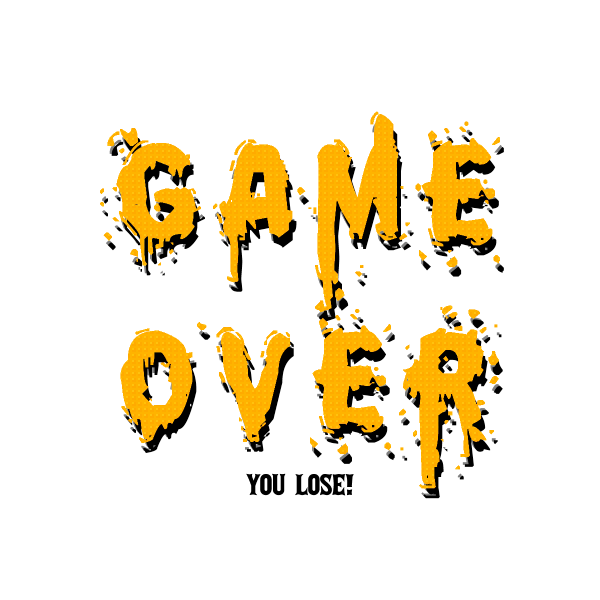
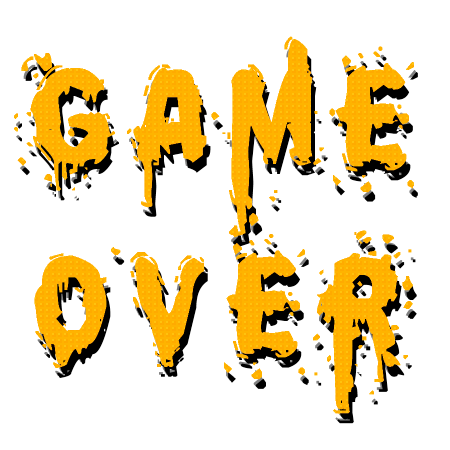
Added Game Over and Win Screen

diff --git a/js/rally.js b/js/rally.js
@@ -7,6 +7,7 @@ var cityImage;
 var enemyImage;
 var grassImage;
 var mapleImage;
+var gameOverImage;
 var selectedMap;
 var selectedRoad;
 var worldPos;
@@ -14,10 +15,17 @@ var stopwatchString;
 var collectedSyrups = 0;
 var currentLevel = 0;
 var levels = [];
-var playerName = localStorage.getItem("username");
 var joy = " ";
 
+var elapsedTime;
+var totalTime = 0;
+
+var playerName = localStorage.getItem("username");
+
 const imageCache = {};
+
+var gameOver = false;
+var gameWon = false;
 
 function cachedLoadImage(path) {
     if (!imageCache[path]) {
@@ -28,7 +36,9 @@ function cachedLoadImage(path) {
 }
 
 function preload() {
-    levels = getMaps()
+    levels = getMaps();
+
+    refreshScores();
 
     specialCarSkins = {
         "uwu": loadImage("./assets/player/uwu.png"),
@@ -48,12 +58,14 @@ function preload() {
     if (specialCityTexture[playerName.toLowerCase()]) {
         cityImage = specialCityTexture[playerName.toLowerCase()];
     } else {
-        cityImage = loadImage("./assets/map/cityBW.png");
+        cityImage = loadImage("./assets/map/citybw.png");
     }
 
     enemyImage = loadImage("./assets/enemy/enemy.png");
     grassImage = loadImage("./assets/map/grass.png");
     mapleImage = loadImage("./assets/items/maple.png");
+
+    gameOverImage = loadImage("./assets/ui/gameover.png")
 
     cachedLoadImage("./assets/road/000001010.png");
     cachedLoadImage("./assets/road/000100010.png");
@@ -99,12 +111,10 @@ function nextLevel() {
     worldPos = createVector(0, 0);
 
     if (currentLevel == levels.length) {
-        alert("you win");
-        currentLevel = -1;
+        //alert("you win");
+        gameWon = true;
         addScore(playerName, stopwatchString);
         clearInterval(stopwatchInterval);
-        startStopwatch();
-        nextLevel();
         return;
     }
 
@@ -133,64 +143,86 @@ function restartCurrentLevel() {
 }
 
 function draw() {
-    background(255);
-    drawMiniMap(selectedMap);
-    showMap(selectedMap);
+    if(!gameOver && !gameWon){
+        background(255);
+        drawMiniMap(selectedMap);
+        showMap(selectedMap);
 
-    player.move(null, null, true, joy);
-    player.show(carImage, true);
+        player.move(null, null, true, joy);
+        player.show(carImage, true);
 
-    for (let i = 0; i < enemy.length; i++) {
-        enemy[i].show(enemyImage);
-        if (i < 1) {
-            smartAI(enemy[i]);
-        } else {
-            wanderAI(enemy[i]);
+        for (let i = 0; i < enemy.length; i++) {
+            enemy[i].show(enemyImage);
+            if (i < 1) {
+                smartAI(enemy[i]);
+            } else {
+                wanderAI(enemy[i]);
+            }
+
+            if (enemy[i].collideOtherCar(player)) {
+                gameOver = true;
+                clearInterval(stopwatchInterval);
+                console.log("collideWithPlayer");
+            }
         }
 
-        if (enemy[i].collideOtherCar(player)) {
-            restartCurrentLevel();
-            console.log("collideWithPlayer");
+        for (let i = 0; i < mapleSyrups.length; i++) {
+            mapleSyrups[i].show();
+
+            if (mapleSyrups[i].collide()) {
+                mapleSyrups.splice(i, 1);
+                player.health = 1;
+                collectedSyrups++;
+            }
         }
-    }
 
-    for (let i = 0; i < mapleSyrups.length; i++) {
-        mapleSyrups[i].show();
-
-        if (mapleSyrups[i].collide()) {
-            mapleSyrups.splice(i, 1);
-            player.health = 1;
-            collectedSyrups++;
+        if (mapleSyrups.length == 0) {
+            nextLevel();
         }
+
+        fill(255, 60, 0);
+        noStroke();
+        rect(width - width / 6, 0, width / 6, width / 40, 5);
+        fill(255);
+        textSize(width / 50);
+        fill(255, 255, 0);
+        text(localStorage.getItem("username"), width - width / 20, width / 50)
+        fill(255, 255, 255);
+        text(stopwatchString, width - width / 6 + width / 30, width / 50);
+        fill(255, 255, 0);
+        text(collectedSyrups, width - width / 6 + width / 100, width / 50);
     }
 
-    if (mapleSyrups.length == 0) {
-        nextLevel();
+    //Gameover Image
+    if(gameOver){
+        image(gameOverImage, 40, -30);
+        textSize(40);
+        fill(255, 179, 0);
+        text("Press R To Try Again", 75, 450)
     }
 
-    fill(255, 60, 0);
-    noStroke();
-    rect(width - width / 6, 0, width / 6, width / 40, 5);
-    fill(255);
-    textSize(width / 50);
-    fill(255, 255, 0);
-    text(localStorage.getItem("username"), width - width / 20, width / 50)
-    fill(255, 255, 255);
-    text(stopwatchString, width - width / 6 + width / 30, width / 50);
-    fill(255, 255, 0);
-    text(collectedSyrups, width - width / 6 + width / 100, width / 50);
+    //Gamewon
+    if(gameWon){
+        fill(255, 179, 0);
+        textSize(80);
+        text("YOU WON!", 60, 250)
+        textSize(40);
+        text("Press R To Play Again", 75, 325)
+    }
+
 }
 
 function withInBounds(x, y) {
     if (x < 0 || x >= 16 || y < 0 || y >= 16) return false;
     return true;
 }
+
 var stopwatchInterval;
 
 function startStopwatch() {
     var startTime = Date.now();
     stopwatchInterval = setInterval(function () {
-        var elapsedTime = Date.now() - startTime;
+        elapsedTime = (Date.now() - startTime) + totalTime;
         var minutes = Math.floor(elapsedTime / (60 * 1000));
         var seconds = Math.floor((elapsedTime % (60 * 1000)) / 1000);
         var milliseconds = Math.floor((elapsedTime % 1000) / 10);

diff --git a/js/scoreboard.js b/js/scoreboard.js
@@ -1,8 +1,9 @@
-var Counter = 1;
 var listOfScores = [];
-function addScore(playerName, Score) {
-    listOfScores.push({ "name": playerName, "score": Score });
-    sortScores(listOfScores);
+
+function refreshScores() {
+    if(localStorage.getItem("scores") != null){
+        listOfScores = JSON.parse(localStorage.getItem("scores"));
+    }
     var existingScores = document.getElementsByClassName("scoreItem");
     for(let i = existingScores.length-1; i>=0; i--) {
         existingScores[i].remove();
@@ -14,6 +15,14 @@ function addScore(playerName, Score) {
         document.getElementById("score").append(score);
     }
 }
+
+function addScore(playerName, Score) {
+    listOfScores.push({ "name": playerName, "score": Score });
+    localStorage.setItem("scores", JSON.stringify(listOfScores));
+    sortScores(listOfScores);
+    refreshScores();
+}
+
 function sortScores(scores) {
     scores.sort((a, b) => {
         const time1 = a.score.split(":").join('')

diff --git a/index.html b/index.html
@@ -23,7 +23,7 @@
         <p>Enter Initials</p>
         <input type="text" placeholder="AAA" maxlength="3" id="nameInput"><br><br>
         <button onclick="startGame()">Start</button><br><br>
-        <div style="height: fit-content; width: fit-content; margin: auto;"><p style="margin: 0;">Upload High Scores  <input id="uploadCheck" type="checkbox"></p></div>
+        <div style="height: fit-content; width: fit-content; margin: auto;"><p style="margin: 0;">Upload High Scores  <input id="uploadCheck" type="checkbox" disabled></p></div>
     </div>
     
     <script src="js/index.js"></script>

diff --git a/js/controls.js b/js/controls.js
@@ -2,4 +2,17 @@ function keyPressed() {
     if (key == "m") {
         document.getElementById("miniMap").hidden = !document.getElementById("miniMap").hidden;
     }
+    if (key == "r" && gameOver) {
+        gameOver = false;
+        totalTime = elapsedTime;
+        startStopwatch();
+        restartCurrentLevel();
+    }
+    if (key == "r" && gameWon) {
+        gameWon = false;
+        currentLevel = -1;
+        totalTime = 0;
+        startStopwatch();
+        nextLevel();
+    }
 }

diff --git a/js/player.js b/js/player.js
@@ -42,8 +42,9 @@ class Car {
             noStroke();
             if (this.health < 0) {
                 this.health = 0;
-                alert("You Failed");
-                restartCurrentLevel();
+                //alert("You Failed");
+                gameOver = true;
+                clearInterval(stopwatchInterval);
             }
             rect(-this.w / 2, -50, this.w * this.health, 8, 10);
         }

diff --git a/rally.html b/rally.html
@@ -11,7 +11,7 @@
     <meta charset="utf-8" />
     <meta name="description" content="Rally-X Styled Maze Game In JS With Waffles">
     <meta name="keywords" content="JavaScript, Waffles, Driving, Puzzle, Game">
-    <meta name="viewport" content="width=device-width, initial-scale=1.0">
+    <meta name="viewport" content="width=device-width, initial-scale=0.6">
     <title>Rally Waffle JS</title>
 </head>
 
